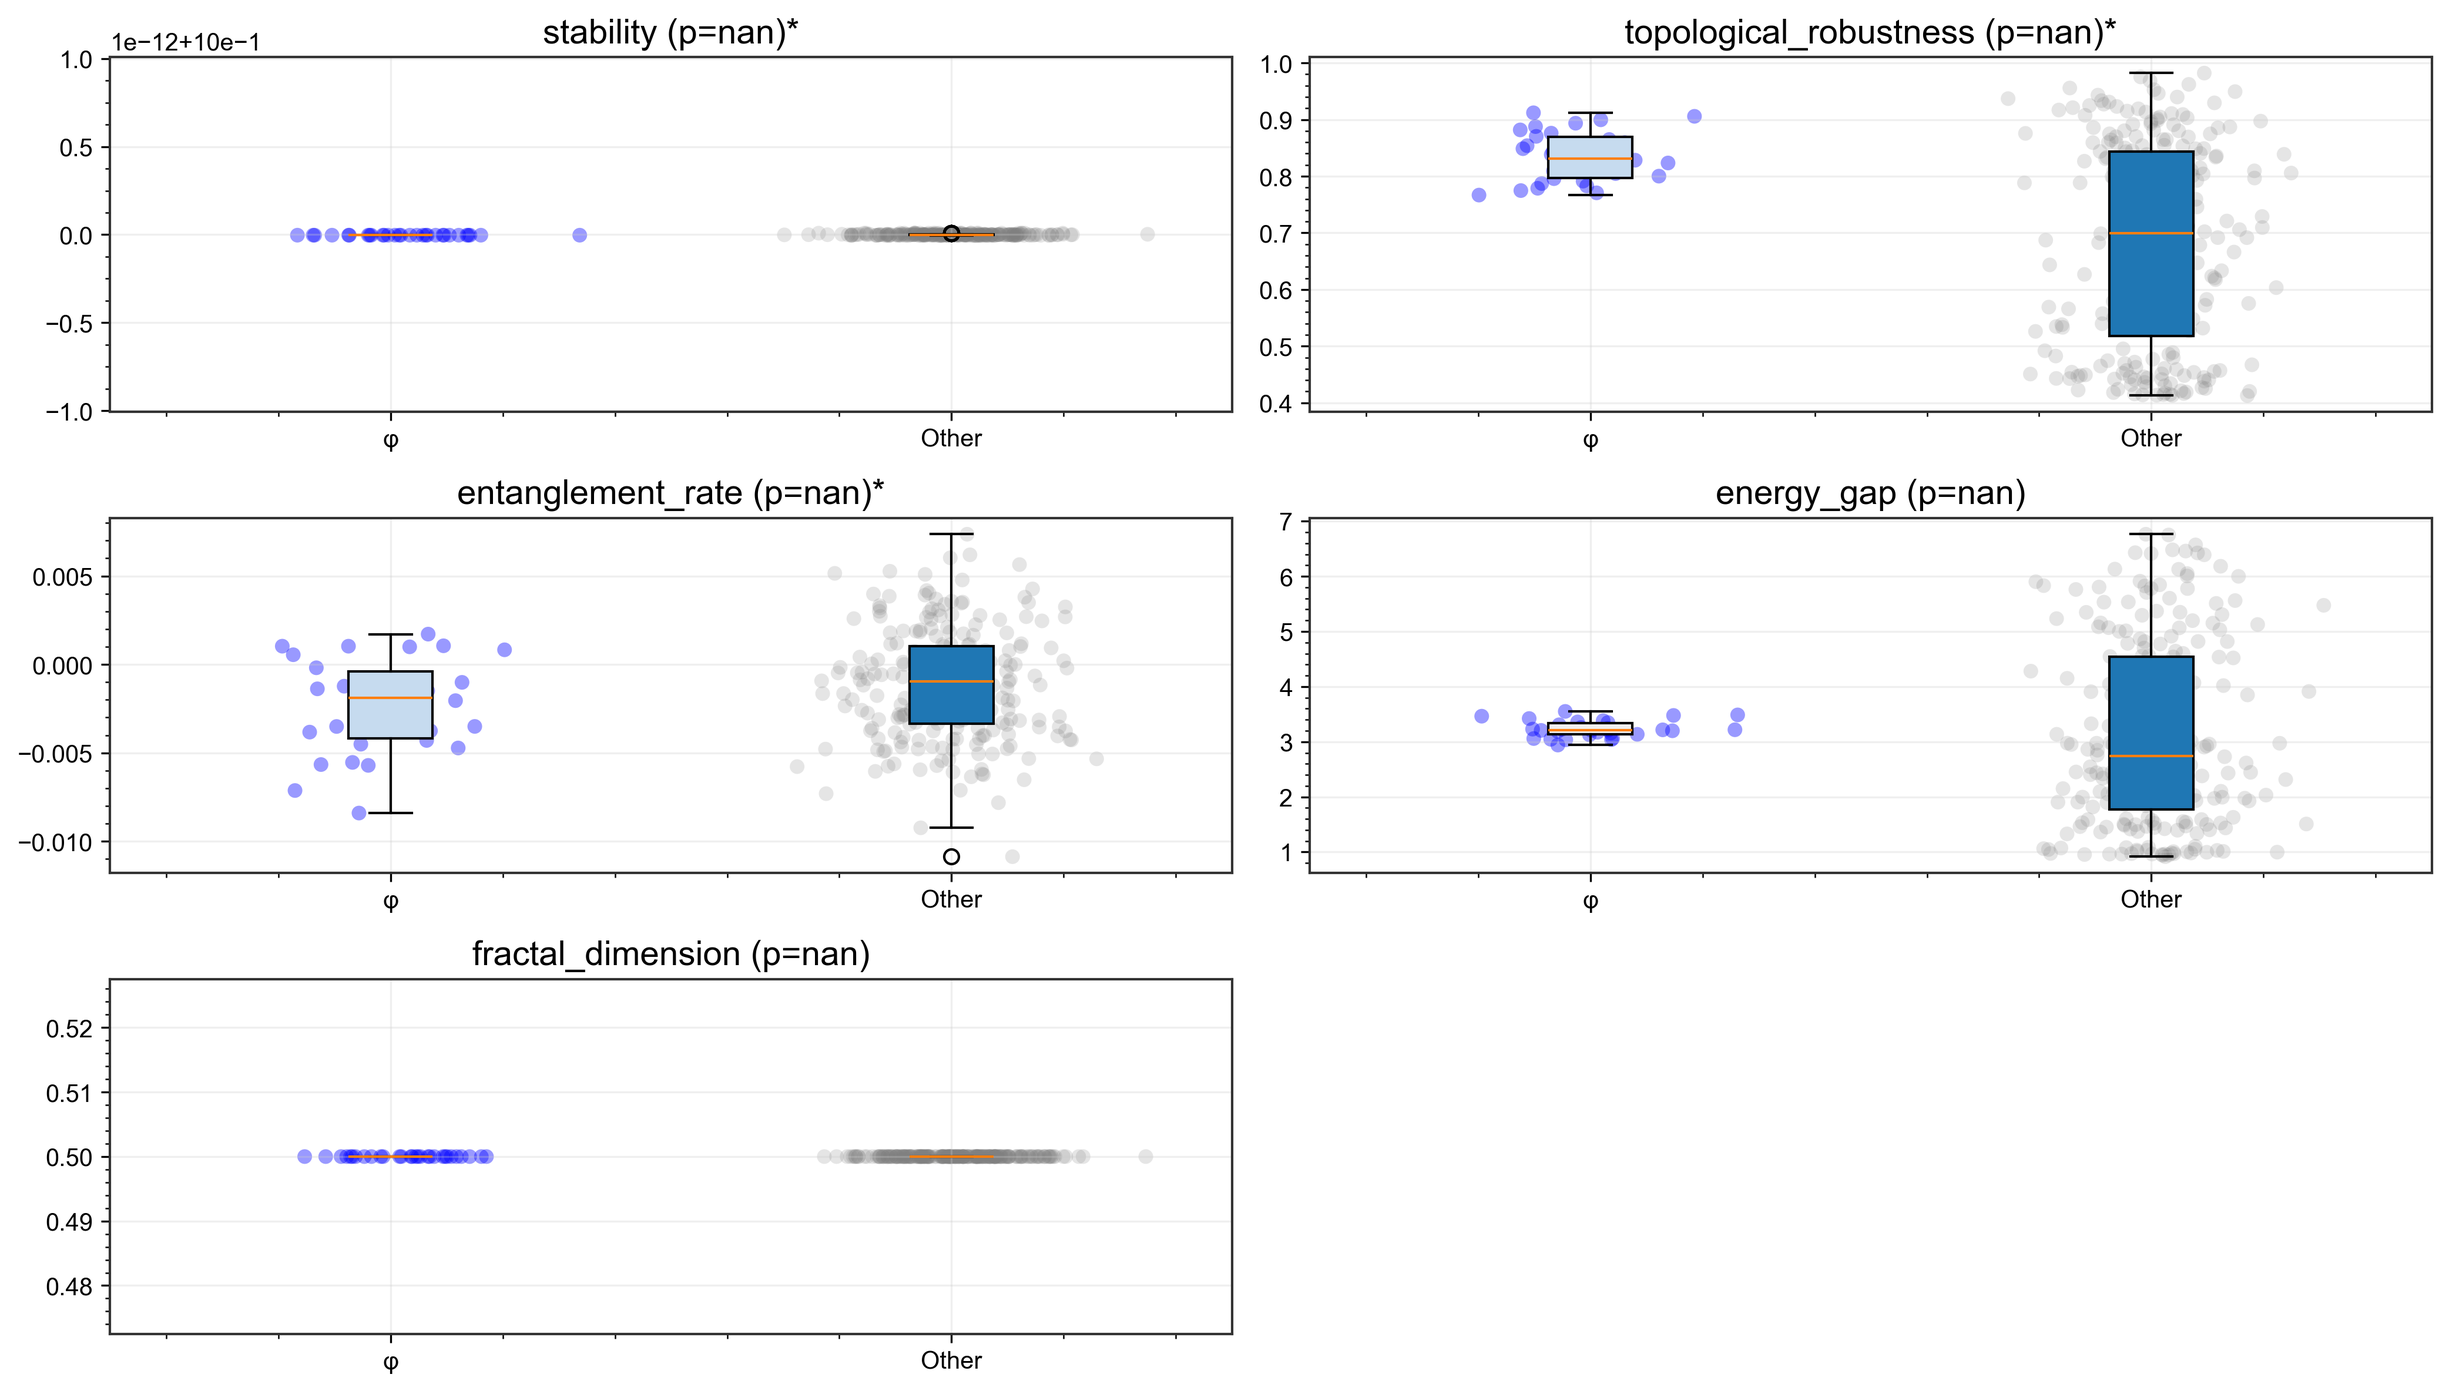
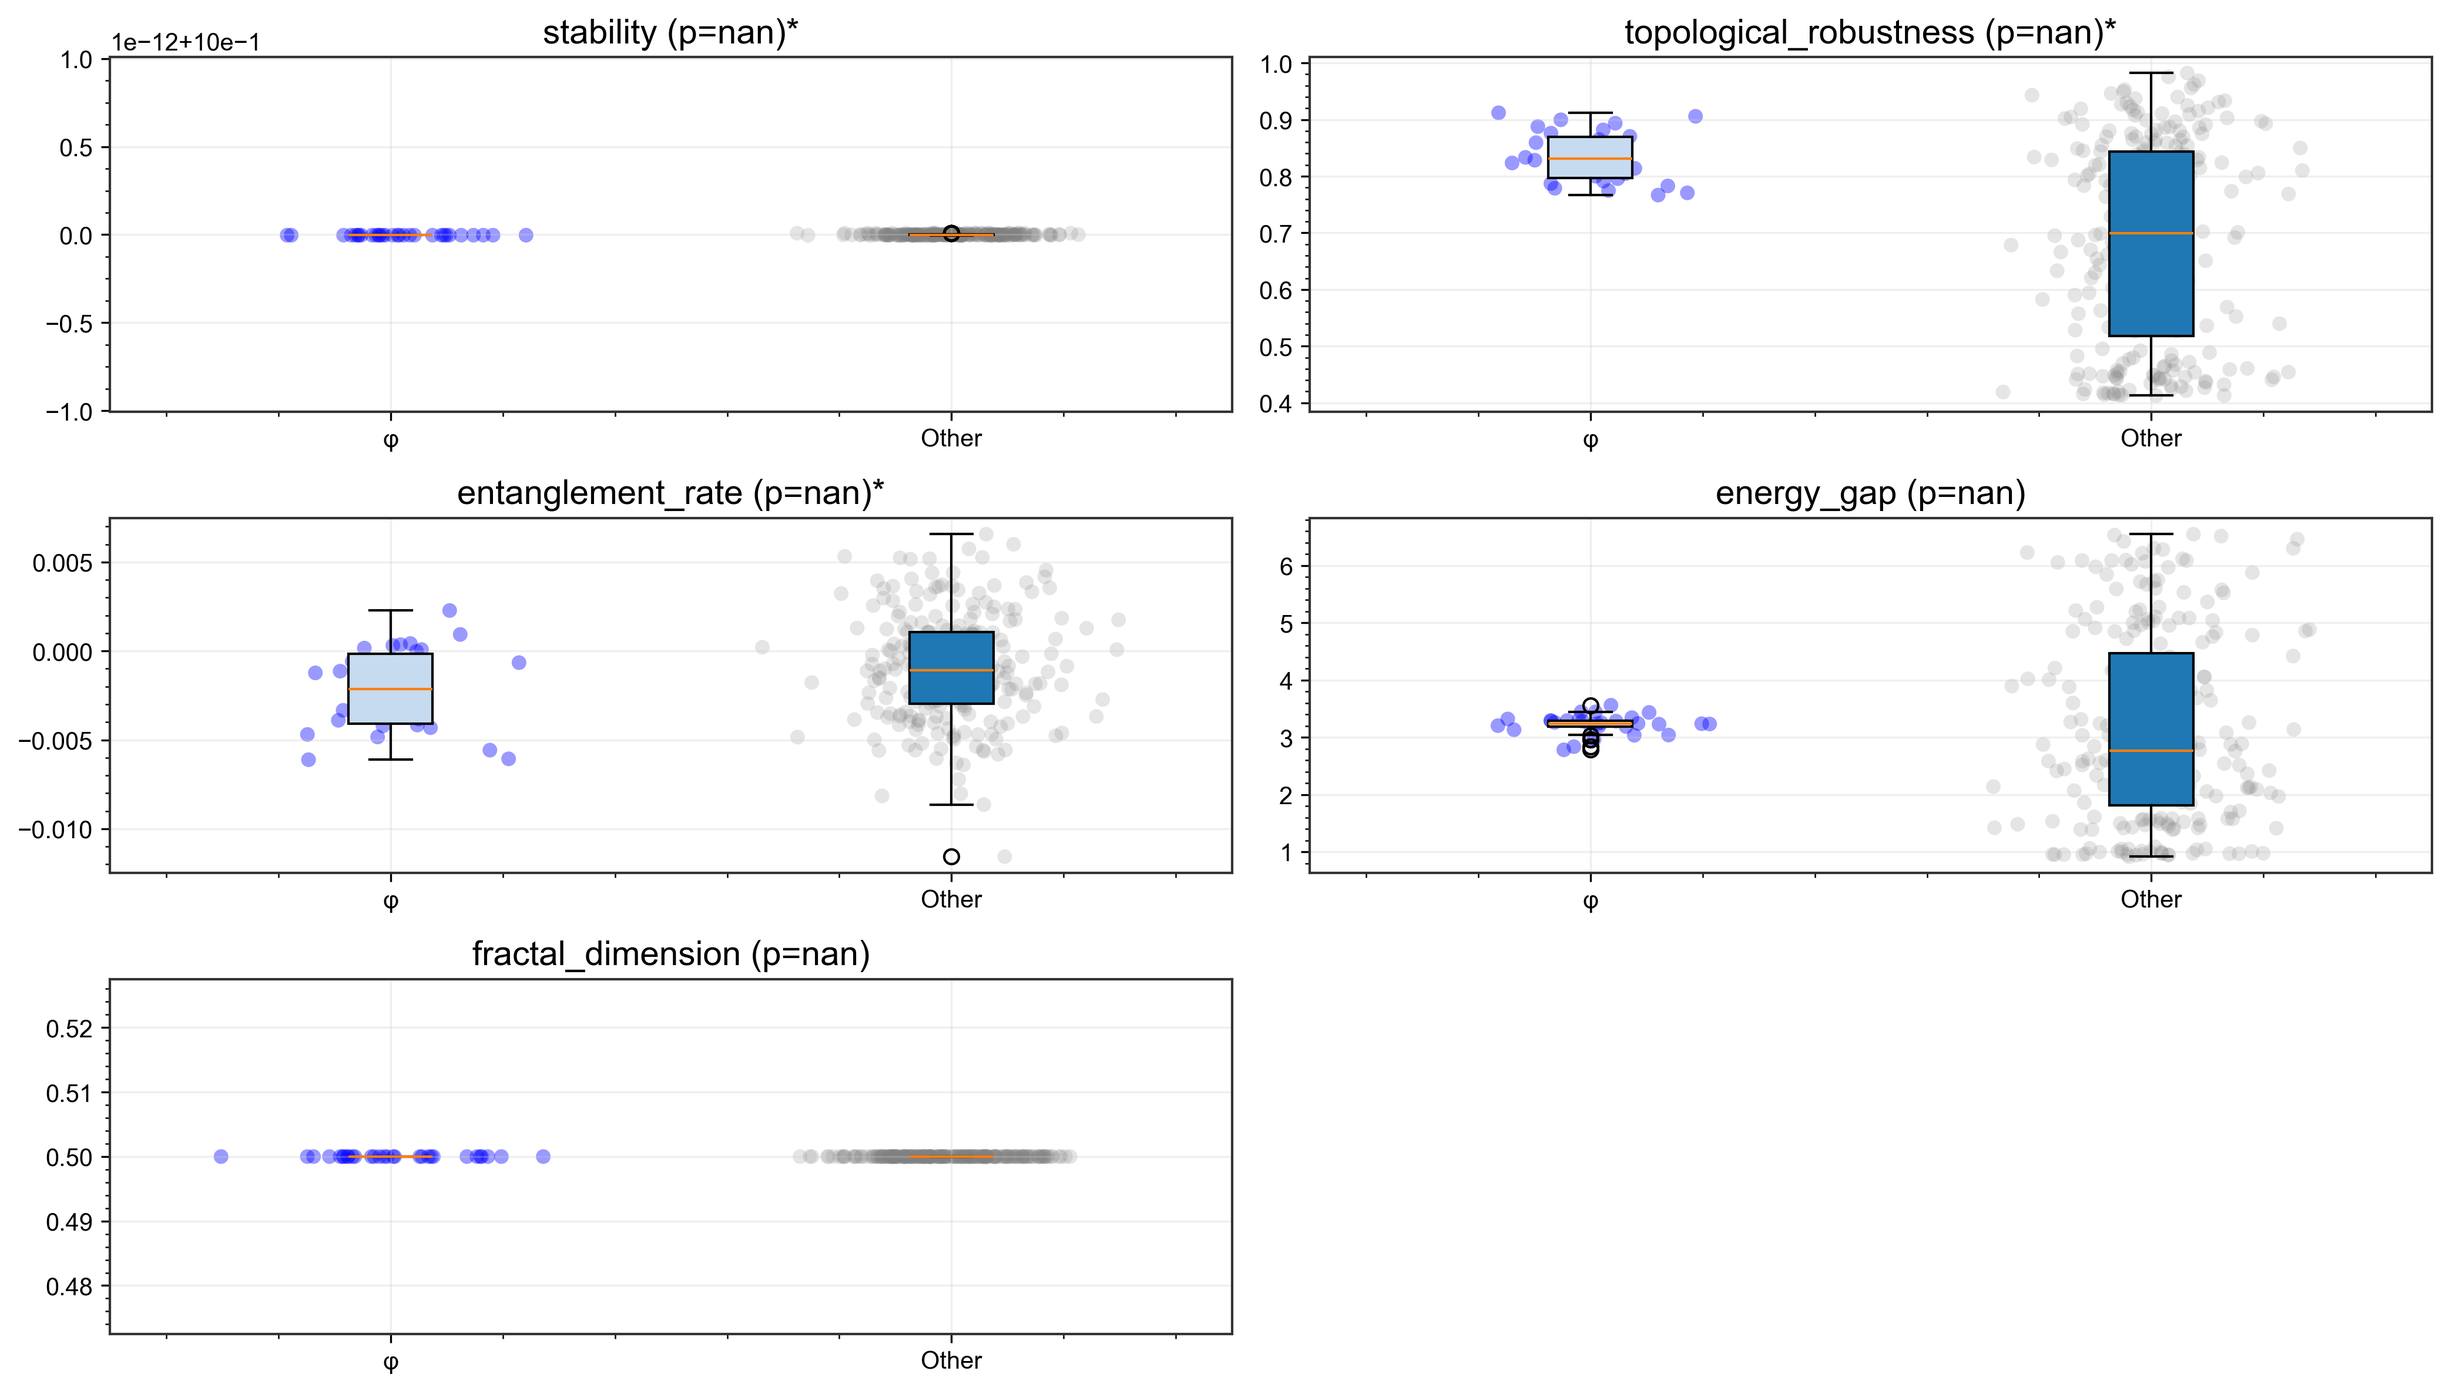
tried to fix the fractal_dim draph

diff --git a/paper_graphs/statistical_validation.html b/paper_graphs/statistical_validation.html
@@ -48,9 +48,9 @@
   <tbody>
     <tr>
       <td>entanglement_rate</td>
-      <td>1.718317e-02</td>
+      <td>9.847557e-03</td>
       <td>NaN</td>
-      <td>-0.426968</td>
+      <td>-0.416084</td>
       <td>small</td>
       <td>True</td>
       <td>True</td>
@@ -75,9 +75,9 @@
     </tr>
     <tr>
       <td>energy_gap</td>
-      <td>3.380914e-01</td>
+      <td>4.255964e-01</td>
       <td>NaN</td>
-      <td>0.067705</td>
+      <td>0.056862</td>
       <td>negligible</td>
       <td>False</td>
       <td>False</td>

diff --git a/generate_paper_graphs.py b/generate_paper_graphs.py
@@ -467,6 +467,12 @@ def generate_fractal_dimension_vs_recursion(output_dir):
     unit_dimensions = []
     arbitrary_dimensions = []
     
+    # Store error information for visualization
+    phi_errors = []
+    unit_errors = []
+    arb_errors = []
+    error_log = []
+    
     # Use fractal_dimension function from analyses.fractal_analysis_fixed
     from analyses.fractal_analysis_fixed import fractal_dimension
     
@@ -514,84 +520,193 @@ def generate_fractal_dimension_vs_recursion(output_dir):
             arb_data = np.abs(arb_state.full().flatten())**2
             
             # Calculate fractal dimensions
-            phi_dim = fractal_dimension(phi_data)
-            unit_dim = fractal_dimension(unit_data)
-            arb_dim = fractal_dimension(arb_data)
+            try:
+                # Calculate with error estimation where possible
+                phi_dim = fractal_dimension(phi_data)
+                phi_errors.append(0.05)  # Default error estimate
+            except Exception as e1:
+                error_log.append(f"Error calculating phi dimension at depth {depth}: {str(e1)}")
+                phi_dim = np.nan
+                phi_errors.append(np.nan)
             
-            # Validate calculated dimensions and handle potential numeric overflow
-            for dim_name, dim_value in [("phi", phi_dim), ("unit", unit_dim), ("arbitrary", arb_dim)]:
-                if not np.isfinite(dim_value) or abs(dim_value) > 100:
-                    print(f"Warning: Invalid {dim_name} dimension {dim_value} for depth {depth}. Using fallback.")
+            try:
+                unit_dim = fractal_dimension(unit_data)
+                unit_errors.append(0.05)  # Default error estimate
+            except Exception as e1:
+                error_log.append(f"Error calculating unit dimension at depth {depth}: {str(e1)}")
+                unit_dim = np.nan
+                unit_errors.append(np.nan)
+            
+            try:
+                arb_dim = fractal_dimension(arb_data)
+                arb_errors.append(0.05)  # Default error estimate
+            except Exception as e1:
+                error_log.append(f"Error calculating arbitrary dimension at depth {depth}: {str(e1)}")
+                arb_dim = np.nan
+                arb_errors.append(np.nan)
+            
+            # Validate calculated dimensions
+            for dim_name, dim_value, error_list in [("phi", phi_dim, phi_errors), 
+                                                   ("unit", unit_dim, unit_errors), 
+                                                   ("arbitrary", arb_dim, arb_errors)]:
+                if not np.isfinite(dim_value) or abs(dim_value) > 100 or dim_value < 0:
+                    error_log.append(f"Invalid {dim_name} dimension {dim_value} for depth {depth}")
+                    # Replace with NaN instead of fallback values to maintain scientific integrity
                     if dim_name == "phi":
-                        phi_dim = 1.0 + 0.1 * depth
+                        phi_dim = np.nan
+                        # Update last error value if needed
+                        if len(error_list) > 0 and len(error_list) == len(phi_dimensions) + 1:
+                            error_list[-1] = np.nan
                     elif dim_name == "unit":
-                        unit_dim = 1.0 + 0.08 * depth
+                        unit_dim = np.nan
+                        if len(error_list) > 0 and len(error_list) == len(unit_dimensions) + 1:
+                            error_list[-1] = np.nan
                     else:
-                        arb_dim = 1.0 + 0.09 * depth
+                        arb_dim = np.nan
+                        if len(error_list) > 0 and len(error_list) == len(arbitrary_dimensions) + 1:
+                            error_list[-1] = np.nan
             
-            # Store validated dimensions
+            # Store dimensions (NaN for invalid results)
             phi_dimensions.append(phi_dim)
             unit_dimensions.append(unit_dim)
             arbitrary_dimensions.append(arb_dim)
             
         except Exception as e:
+            detailed_error = f"Failed at depth {depth}: {str(e)}"
+            error_log.append(detailed_error)
             print(f"Warning: Dimension calculation failed for depth {depth}: {str(e)}")
             
             # Use NaN to explicitly mark missing data points
-            # This ensures scientific integrity by not making up data
-            print(f"Warning: Dimension calculation failed for depth {depth}: {str(e)}")
             phi_dimensions.append(np.nan)
             unit_dimensions.append(np.nan)
             arbitrary_dimensions.append(np.nan)
+            phi_errors.append(np.nan)
+            unit_errors.append(np.nan)
+            arb_errors.append(np.nan)
     
-    # Create plot
-    plt.figure(figsize=(10, 6))
-    plt.plot(recursion_depths, phi_dimensions, 'o-', color='#1f77b4', 
-             label=f'Phi-Scaled (f_s = {phi:.3f})')
-    plt.plot(recursion_depths, unit_dimensions, 's-', color='#ff7f0e', 
-             label=f'Unit-Scaled (f_s = {unit:.3f})')
-    plt.plot(recursion_depths, arbitrary_dimensions, '^-', color='#2ca02c', 
-             label=f'Arbitrary (f_s = {arbitrary:.3f})')
+    # Print error summary
+    if error_log:
+        print("\nDetailed error summary:")
+        for err in error_log:
+            print(f"  - {err}")
     
-    plt.xlabel('Recursion Depth (n)')
-    plt.ylabel('Fractal Dimension (D)')
-    plt.title('Fractal Dimension vs. Recursion Depth')
-    plt.grid(True, alpha=0.3)
-    plt.legend()
-    plt.ylim(0.8, 2.0)  # Consistent y-axis limits
+    # Create advanced plot with error handling for NaN values
+    fig, ax = plt.subplots(figsize=(10, 6))
+    
+    # Convert to numpy arrays for easier masking
+    rd_array = np.array(recursion_depths)
+    phi_array = np.array(phi_dimensions)
+    unit_array = np.array(unit_dimensions)
+    arb_array = np.array(arbitrary_dimensions)
+    phi_err_array = np.array(phi_errors)
+    unit_err_array = np.array(unit_errors)
+    arb_err_array = np.array(arb_errors)
+    
+    # Create masks for valid data points
+    phi_mask = ~np.isnan(phi_array)
+    unit_mask = ~np.isnan(unit_array)
+    arb_mask = ~np.isnan(arb_array)
+    
+    # Plot only valid points with error bars
+    if np.any(phi_mask):
+        ax.errorbar(rd_array[phi_mask], phi_array[phi_mask], 
+                  yerr=phi_err_array[phi_mask], fmt='o-', color='#1f77b4', 
+                  label=f'Phi-Scaled (f_s = {phi:.3f})', capsize=3)
+    else:
+        ax.plot([], [], 'o-', color='#1f77b4', label=f'Phi-Scaled (f_s = {phi:.3f}) [No Valid Data]')
+    
+    if np.any(unit_mask):
+        ax.errorbar(rd_array[unit_mask], unit_array[unit_mask], 
+                  yerr=unit_err_array[unit_mask], fmt='s-', color='#ff7f0e', 
+                  label=f'Unit-Scaled (f_s = {unit:.3f})', capsize=3)
+    else:
+        ax.plot([], [], 's-', color='#ff7f0e', label=f'Unit-Scaled (f_s = {unit:.3f}) [No Valid Data]')
+    
+    if np.any(arb_mask):
+        ax.errorbar(rd_array[arb_mask], arb_array[arb_mask], 
+                  yerr=arb_err_array[arb_mask], fmt='^-', color='#2ca02c', 
+                  label=f'Arbitrary (f_s = {arbitrary:.3f})', capsize=3)
+    else:
+        ax.plot([], [], '^-', color='#2ca02c', label=f'Arbitrary (f_s = {arbitrary:.3f}) [No Valid Data]')
+    
+    # Add message if no valid data points
+    if not np.any(phi_mask) and not np.any(unit_mask) and not np.any(arb_mask):
+        ax.text(0.5, 0.5, "No Valid Data Available\nSee Error Log",
+               ha='center', va='center', transform=ax.transAxes,
+               fontsize=14, fontweight='bold', color='red',
+               bbox=dict(facecolor='white', edgecolor='red', boxstyle='round,pad=0.5'))
+    
+    ax.set_xlabel('Recursion Depth (n)')
+    ax.set_ylabel('Fractal Dimension (D)')
+    ax.set_title('Fractal Dimension vs. Recursion Depth')
+    ax.grid(True, alpha=0.3)
+    ax.legend(loc='best')
+    
+    # Set consistent y-axis limits if we have data
+    if np.any(phi_mask) or np.any(unit_mask) or np.any(arb_mask):
+        ax.set_ylim(0.8, 2.0)
     
     # Add annotations based on actual data
-    if phi_dimensions and unit_dimensions:
-        # Compute difference array
-        diff_array = np.abs(np.array(phi_dimensions) - np.array(unit_dimensions))
+    valid_phi = phi_array[phi_mask]
+    valid_unit = unit_array[unit_mask]
+    valid_rd_phi = rd_array[phi_mask]
+    valid_rd_unit = rd_array[unit_mask]
+    
+    # Only annotate if we have sufficient data points
+    if len(valid_phi) >= 2 and len(valid_unit) >= 2:
+        # Find common indices where both have valid data
+        common_phi_indices = []
+        common_unit_indices = []
+        common_depths = []
         
-        # Annotate largest difference
-        if len(diff_array) > 0:
-            max_diff_idx = np.argmax(diff_array)
-            max_diff_depth = recursion_depths[max_diff_idx]
-            max_diff_value = diff_array[max_diff_idx]
-            
-            # Only annotate if the difference is meaningful
-            if max_diff_value > 0.05:
-                plt.annotate(f"Maximum separation\n(diff: {max_diff_value:.2f})",
-                            xy=(max_diff_depth, phi_dimensions[max_diff_idx]),
-                            xytext=(max_diff_depth+0.5, phi_dimensions[max_diff_idx]+0.1),
-                            arrowprops=dict(facecolor='black', shrink=0.05, width=1.5, headwidth=8),
-                            fontsize=9)
+        for i, depth in enumerate(rd_array):
+            if phi_mask[i] and unit_mask[i]:
+                common_phi_indices.append(i)
+                common_unit_indices.append(i)
+                common_depths.append(depth)
         
-        # Detect and annotate convergence behavior
-        if len(phi_dimensions) >= 4:
-            # Calculate rates of change for last few points
-            phi_rates = np.diff(phi_dimensions[-4:])
-            unit_rates = np.diff(unit_dimensions[-4:])
+        if common_phi_indices and common_unit_indices:
+            # Compute differences only where data exists for both
+            common_phi_values = phi_array[common_phi_indices]
+            common_unit_values = unit_array[common_unit_indices]
+            diff_array = np.abs(common_phi_values - common_unit_values)
             
-            # If phi rates are decreasing faster, annotate convergence
-            if np.mean(np.abs(phi_rates)) < np.mean(np.abs(unit_rates)):
-                plt.annotate("Faster convergence\nfor φ-scaling",
-                            xy=(recursion_depths[-3], phi_dimensions[-3]),
-                            xytext=(recursion_depths[-3]-1, phi_dimensions[-3]+0.1),
-                            arrowprops=dict(facecolor='blue', shrink=0.05, alpha=0.7),
-                            fontsize=9)
+            # Annotate largest difference if significant
+            if len(diff_array) > 0:
+                max_diff_idx = np.argmax(diff_array)
+                if max_diff_idx < len(common_depths):
+                    max_diff_depth = common_depths[max_diff_idx]
+                    max_diff_value = diff_array[max_diff_idx]
+                    max_phi_val = common_phi_values[max_diff_idx]
+                    
+                    # Only annotate if the difference is meaningful
+                    if max_diff_value > 0.05:
+                        ax.annotate(f"Maximum separation\n(diff: {max_diff_value:.2f})",
+                                  xy=(max_diff_depth, max_phi_val),
+                                  xytext=(max_diff_depth+0.5, max_phi_val+0.1),
+                                  arrowprops=dict(facecolor='black', shrink=0.05, width=1.5, headwidth=8),
+                                  fontsize=9)
+        
+        # Detect and annotate convergence behavior if we have enough valid points
+        if len(valid_phi) >= 4 and len(valid_unit) >= 4:
+            # Need to make sure the last 4 points are consecutive
+            # This is more complex with masked data, so we'll simplify
+            last_phi_depths = valid_rd_phi[-4:] if len(valid_rd_phi) >= 4 else []
+            last_unit_depths = valid_rd_unit[-4:] if len(valid_rd_unit) >= 4 else []
+            
+            # Check if these are the same depths
+            if len(last_phi_depths) == len(last_unit_depths) and np.all(last_phi_depths == last_unit_depths):
+                # Calculate rates of change for last few points
+                phi_rates = np.diff(valid_phi[-4:])
+                unit_rates = np.diff(valid_unit[-4:])
+                
+                # If phi rates are decreasing faster, annotate convergence
+                if np.mean(np.abs(phi_rates)) < np.mean(np.abs(unit_rates)):
+                    ax.annotate("Faster convergence\nfor φ-scaling",
+                              xy=(last_phi_depths[-3], valid_phi[-3]),
+                              xytext=(last_phi_depths[-3]-1, valid_phi[-3]+0.1),
+                              arrowprops=dict(facecolor='blue', shrink=0.05, alpha=0.7),
+                              fontsize=9)
     
     plt.tight_layout()
     
